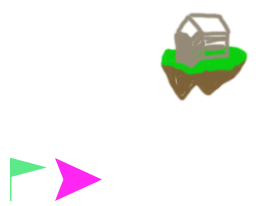
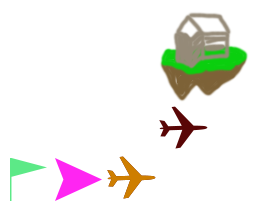
Pirates are now following ship

Changed region(s): [[0.4062, 0.7573, 0.625, 0.9612], [0.625, 0.4951, 0.8125, 0.7282]]

diff --git a/app/assets/stylesheets/art.scss b/app/assets/stylesheets/art.scss
@@ -29,6 +29,32 @@
   }
 }
 
+@function sprite_position_pirate_fly_0000(){
+  @return -158px -104px;
+}
+@mixin sprite_pirate_fly_0000($width: 50px, $height: 50px) {
+  width: $width;
+  height: $height;
+  background: {
+    repeat: no-repeat;
+    image: sprite_image_url();
+    position: sprite_position_pirate_fly_0000();
+  }
+}
+
+@function sprite_position_pirate_standby_0000(){
+  @return -106px -154px;
+}
+@mixin sprite_pirate_standby_0000($width: 50px, $height: 50px) {
+  width: $width;
+  height: $height;
+  background: {
+    repeat: no-repeat;
+    image: sprite_image_url();
+    position: sprite_position_pirate_standby_0000();
+  }
+}
+
 @function sprite_position_ship_fly_0000(){
   @return -54px -154px;
 }

diff --git a/app/assets/javascripts/art.js b/app/assets/javascripts/art.js
@@ -30,6 +30,34 @@ var artSprite = {
     "sourceSize": {"w":150,"h":150}
   }, 
 
+  "pirate_fly_0000.png":
+  {
+    "frame": {"x":158,"y":104,"w":50,"h":50},
+    "rotated": false,
+    "trimmed": false,
+    "spriteSourceSize": {
+      "x":0,
+      "y":0,
+      "w":50,
+      "h":50
+    },
+    "sourceSize": {"w":50,"h":50}
+  }, 
+
+  "pirate_standby_0000.png":
+  {
+    "frame": {"x":106,"y":154,"w":50,"h":50},
+    "rotated": false,
+    "trimmed": false,
+    "spriteSourceSize": {
+      "x":0,
+      "y":0,
+      "w":50,
+      "h":50
+    },
+    "sourceSize": {"w":50,"h":50}
+  }, 
+
   "ship_fly_0000.png":
   {
     "frame": {"x":54,"y":154,"w":50,"h":50},
